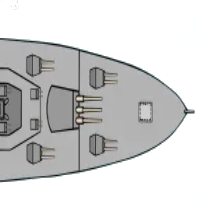
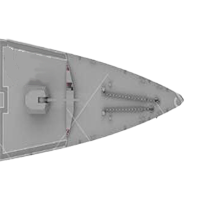
Auto stash before merge of "main" and "origin/main"
changement du nombre de bateaux à 6 et modification des sprites

diff --git a/BattleShip.API/GameHub.cs b/BattleShip.API/GameHub.cs
@@ -104,7 +104,7 @@ public class GameHub : Hub
                 throw new InvalidOperationException("It's not your turn!");
             bool result = user.opponent.board.IsHit(coordX, coordY);
             user.plays.Add([coordX, coordY, result? 1 : 0]);
-            if (game.AddCoords(user, coordX, coordY, result) >= 17)
+            if (game.AddCoords(user, coordX, coordY, result) >= 15)
             { 
                 game.state = GameState.RESULT;
             }
@@ -117,7 +117,7 @@ public class GameHub : Hub
                     game.userB.plays.Add([coords[0], coords[1], aiResult ? 1 : 0]);
                     await Clients.Client(user.id).SendAsync("Play", coords[0], coords[1]);
 
-                    if (game.AddCoords(game.userB, coords[0], coords[1], aiResult) >= 17)
+                    if (game.AddCoords(game.userB, coords[0], coords[1], aiResult) >= 15)
                     {
                         game.state = GameState.RESULT;
                     }

diff --git a/BattleShip.API/Board.cs b/BattleShip.API/Board.cs
@@ -1,4 +1,4 @@
-using System;
+using System;
 using System.Drawing;
 using System.Runtime.CompilerServices;
 using System.Security.Principal;
@@ -29,14 +29,13 @@ namespace BattleShip.API
 
         public List<List<char>> PlaceRdmBoats()
         {
-            int[] BoatSizes = { 5, 4, 3, 3, 2 };
-            char[] BoatNames = { 'A', 'B', 'C', 'D', 'E' };
+            int[] BoatSizes = { 4, 3, 3, 2, 2, 1 };
+            char[] BoatNames = { 'A', 'B', 'C', 'D', 'E', 'F' };
             Random random = new Random();
 
             for (int i = 0; i < BoatSizes.Length; i++)
             {
                 bool place = false;
-
                 while (!place)
                 {
                     int size = BoatSizes[i];
